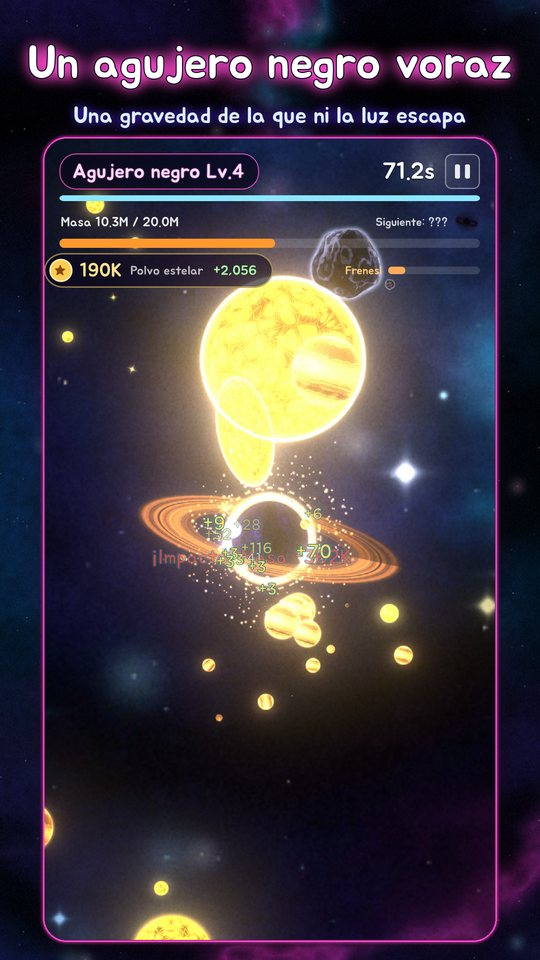
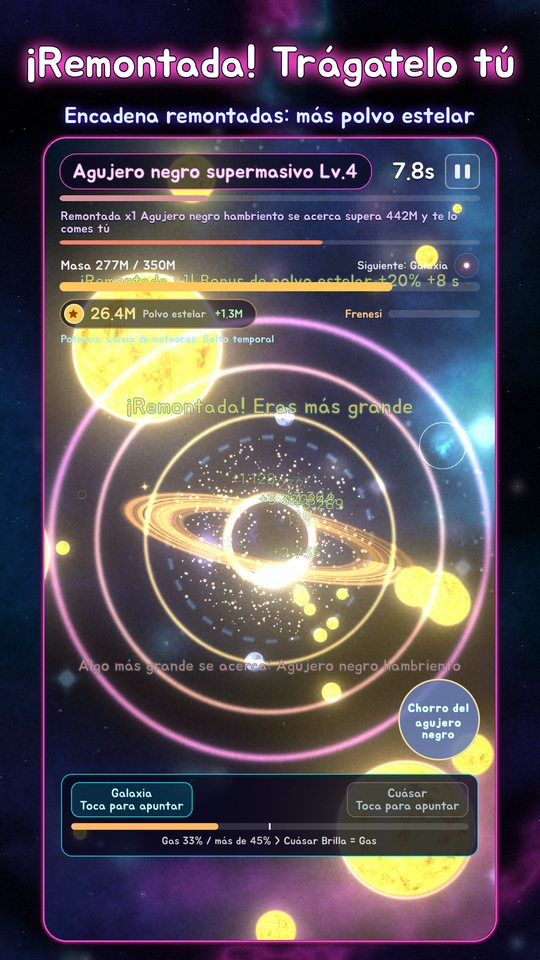
행성 키우기: 0.8 내용 반영 (포식자·역전·PHASE 2 소개, 새 스크린샷 8장 4개 언어)
Claude-Session: https://claude.ai/code/session_017QSvagNMUSkQcPdE7ZgBEb

diff --git a/ja/stellarbloom.html b/ja/stellarbloom.html
@@ -44,16 +44,20 @@
 
   <div class="shots">
     <img src="../img/stellarbloom_ja_1.jpg" alt="ぶつけて飲み込んで大きく：引き寄せ合い、合体する天体" loading="lazy">
-    <img src="../img/stellarbloom_ja_2.jpg" alt="飲み込んだ物質が進化を決める：環をまとった巨大ガス惑星" loading="lazy">
-    <img src="../img/stellarbloom_ja_3.jpg" alt="恒星になり、超巨星になる：赤色超巨星と降り注ぐ星くず" loading="lazy">
-    <img src="../img/stellarbloom_ja_4.jpg" alt="すべてを飲み込むブラックホール" loading="lazy">
-    <img src="../img/stellarbloom_ja_5.jpg" alt="ついに銀河へ" loading="lazy">
-    <img src="../img/stellarbloom_ja_6.jpg" alt="本物の天文学にもとづく図鑑：土星" loading="lazy">
+    <img src="../img/stellarbloom_ja_2.jpg" alt="何かが迫ってくる：巨大ガス惑星の背後に膨らむ赤色巨星" loading="lazy">
+    <img src="../img/stellarbloom_ja_3.jpg" alt="遅れれば飲み込まれる：宇宙の深みから来た飢えたもの" loading="lazy">
+    <img src="../img/stellarbloom_ja_4.jpg" alt="逆転：迫ってきた捕食者を逆に飲み込んで延長戦へ" loading="lazy">
+    <img src="../img/stellarbloom_ja_5.jpg" alt="すべてを飲み込むブラックホール" loading="lazy">
+    <img src="../img/stellarbloom_ja_6.jpg" alt="事象の地平線の向こう、PHASE 2" loading="lazy">
+    <img src="../img/stellarbloom_ja_7.jpg" alt="観測者の声" loading="lazy">
+    <img src="../img/stellarbloom_ja_8.jpg" alt="本物の天文学にもとづく図鑑：土星" loading="lazy">
   </div>
 
   <h2>特徴</h2>
   <ul class="features">
     <li><b>24種類の天体へ進化</b>原始惑星、スーパーアース、褐色矮星、赤色超巨星、マグネター、超大質量ブラックホール、楕円銀河まで。各段階で Lv.1〜5 まで成長します。</li>
+    <li><b>迫りくる捕食者、そして逆転</b>探査の終わりが近づくと、宇宙の深みから何かが迫ってきます。たどり着く前にそれより大きくなれば逆に飲み込み、さらに大きなものが来る延長戦へ。</li>
+    <li><b>事象の地平線の向こう、PHASE 2</b>初めてブラックホールになった瞬間、画面が裂けて PHASE 2 が開きます。観測者の声と観測日誌12編が、隠された物語を語ります。</li>
     <li><b>飲み込んだ物質が運命を決める</b>氷、ガス、重元素のどれを多く飲み込んだかで、進化の分岐が変わります。</li>
     <li><b>生きて動く重力</b>漂う天体どうしも引き寄せ合い、ぶつかると大きいほうが小さいほうを飲み込みます。</li>
     <li><b>本物の天文学のお話</b>新しい天体を発見するたびに、実際の科学にもとづいた短い解説が図鑑に記録されます。</li>

diff --git a/es/stellarbloom.html b/es/stellarbloom.html
@@ -44,16 +44,20 @@
 
   <div class="shots">
     <img src="../img/stellarbloom_es_1.jpg" alt="Choca y absorbe para crecer: cuerpos que se atraen y se fusionan" loading="lazy">
-    <img src="../img/stellarbloom_es_2.jpg" alt="Lo que absorbes decide tu evolución: un gigante gaseoso con anillos" loading="lazy">
-    <img src="../img/stellarbloom_es_3.jpg" alt="Conviértete en estrella y luego en supergigante: una supergigante roja y una lluvia de polvo estelar" loading="lazy">
-    <img src="../img/stellarbloom_es_4.jpg" alt="Un agujero negro que lo traga todo" loading="lazy">
-    <img src="../img/stellarbloom_es_5.jpg" alt="Por fin, una galaxia" loading="lazy">
-    <img src="../img/stellarbloom_es_6.jpg" alt="Una enciclopedia basada en astronomía real: Saturno" loading="lazy">
+    <img src="../img/stellarbloom_es_2.jpg" alt="Algo se acerca: una gigante roja en expansión tras un gigante gaseoso" loading="lazy">
+    <img src="../img/stellarbloom_es_3.jpg" alt="Si tardas, te devora: algo hambriento de las profundidades" loading="lazy">
+    <img src="../img/stellarbloom_es_4.jpg" alt="Remontada: trágate al depredador y sigue en prórroga" loading="lazy">
+    <img src="../img/stellarbloom_es_5.jpg" alt="Un agujero negro que lo traga todo" loading="lazy">
+    <img src="../img/stellarbloom_es_6.jpg" alt="Más allá del horizonte de sucesos: FASE 2" loading="lazy">
+    <img src="../img/stellarbloom_es_7.jpg" alt="Habla el observador" loading="lazy">
+    <img src="../img/stellarbloom_es_8.jpg" alt="Una enciclopedia basada en astronomía real: Saturno" loading="lazy">
   </div>
 
   <h2>Características</h2>
   <ul class="features">
     <li><b>Evoluciona a través de 24 cuerpos celestes</b>Protoplanetas, supertierras, enanas marrones, supergigantes rojas, magnetares, agujeros negros supermasivos y galaxias elípticas. Cada etapa crece del Nv. 1 al Nv. 5.</li>
+    <li><b>Algo se acerca. Dale la vuelta.</b>Al final de cada partida, algo surge de las profundidades. Supéralo en tamaño antes de que llegue y te lo tragarás tú; la partida sigue en prórroga con algo aún más grande en camino.</li>
+    <li><b>Más allá del horizonte de sucesos: FASE 2</b>Cuando te conviertes por primera vez en agujero negro, la pantalla se rasga y empieza la FASE 2. La voz del observador y 12 diarios de observación revelan la historia oculta.</li>
     <li><b>Lo que absorbes decide tu destino</b>Tu evolución se ramifica según hayas absorbido sobre todo hielo, gas o elementos pesados.</li>
     <li><b>Gravedad viva</b>Los cuerpos que flotan también se atraen entre sí y, cuando dos chocan, el mayor absorbe al menor.</li>
     <li><b>Astronomía de verdad</b>Cada nuevo cuerpo que descubres añade a tu enciclopedia una breve entrada basada en la ciencia real.</li>

diff --git a/stellarbloom.html b/stellarbloom.html
@@ -45,16 +45,20 @@
 
   <div class="shots">
     <img src="img/stellarbloom_ko_1.jpg" alt="부수고 삼켜서 더 크게: 서로 끌어당기고 합쳐지는 천체들" loading="lazy">
-    <img src="img/stellarbloom_ko_2.jpg" alt="삼킨 물질이 진화를 정한다: 고리를 두른 가스 거성" loading="lazy">
-    <img src="img/stellarbloom_ko_3.jpg" alt="별이 되고, 초거성이 되고: 적색 초거성과 쏟아지는 별가루" loading="lazy">
-    <img src="img/stellarbloom_ko_4.jpg" alt="모든 걸 삼키는 블랙홀" loading="lazy">
-    <img src="img/stellarbloom_ko_5.jpg" alt="마침내 은하가 되다" loading="lazy">
-    <img src="img/stellarbloom_ko_6.jpg" alt="실제 천문학 기반 도감: 토성" loading="lazy">
+    <img src="img/stellarbloom_ko_2.jpg" alt="무언가 다가온다: 가스 거성 뒤로 부풀어 오른 적색거성" loading="lazy">
+    <img src="img/stellarbloom_ko_3.jpg" alt="늦으면 삼켜진다: 우주 깊은 곳에서 온 굶주린 것" loading="lazy">
+    <img src="img/stellarbloom_ko_4.jpg" alt="역전: 다가온 포식자를 오히려 삼키고 연장전으로" loading="lazy">
+    <img src="img/stellarbloom_ko_5.jpg" alt="모든 걸 삼키는 블랙홀" loading="lazy">
+    <img src="img/stellarbloom_ko_6.jpg" alt="사건의 지평선 너머, PHASE 2" loading="lazy">
+    <img src="img/stellarbloom_ko_7.jpg" alt="관측자의 목소리" loading="lazy">
+    <img src="img/stellarbloom_ko_8.jpg" alt="실제 천문학 기반 도감: 토성" loading="lazy">
   </div>
 
   <h2>특징</h2>
   <ul class="features">
     <li><b>24가지 천체로 진화</b>원시 행성, 슈퍼지구, 갈색왜성, 적색 초거성, 마그네타, 초대질량 블랙홀, 타원은하까지. 단계마다 Lv.1~5로 자라요.</li>
+    <li><b>다가오는 포식자, 그리고 역전</b>판이 끝날 무렵 우주 깊은 곳에서 무언가 다가와요. 도착하기 전에 그보다 커지면 오히려 삼켜 버리고, 더 큰 것이 오는 연장전이 이어져요.</li>
+    <li><b>사건의 지평선 너머, PHASE 2</b>처음 블랙홀이 되는 순간 화면이 찢어지고 PHASE 2가 열려요. 관측자의 목소리와 관측 일지 12편이 숨겨진 이야기를 들려줘요.</li>
     <li><b>삼킨 물질이 운명을 정해요</b>얼음, 가스, 중원소 중 무엇을 많이 삼켰는지에 따라 진화의 갈래가 달라져요.</li>
     <li><b>살아 움직이는 중력</b>떠다니는 천체들도 서로 끌어당기고, 부딪히면 큰 쪽이 작은 쪽을 삼켜요.</li>
     <li><b>진짜 천문학 이야기</b>새로운 천체를 발견할 때마다 실제 과학에 바탕을 둔 짧은 설명이 도감에 기록돼요.</li>

diff --git a/en/stellarbloom.html b/en/stellarbloom.html
@@ -44,16 +44,20 @@
 
   <div class="shots">
     <img src="../img/stellarbloom_en_1.jpg" alt="Smash and swallow to grow: bodies pulling together and merging" loading="lazy">
-    <img src="../img/stellarbloom_en_2.jpg" alt="What you swallow decides your evolution: a ringed gas giant" loading="lazy">
-    <img src="../img/stellarbloom_en_3.jpg" alt="Become a star, then a supergiant: a red supergiant and a shower of stardust" loading="lazy">
-    <img src="../img/stellarbloom_en_4.jpg" alt="A black hole that swallows everything" loading="lazy">
-    <img src="../img/stellarbloom_en_5.jpg" alt="At last, a galaxy" loading="lazy">
-    <img src="../img/stellarbloom_en_6.jpg" alt="A codex grounded in real astronomy: Saturn" loading="lazy">
+    <img src="../img/stellarbloom_en_2.jpg" alt="Something is coming: a swelling red giant behind a gas giant" loading="lazy">
+    <img src="../img/stellarbloom_en_3.jpg" alt="Too slow, and you&#x27;re devoured: something hungry from the deep" loading="lazy">
+    <img src="../img/stellarbloom_en_4.jpg" alt="Reversal: swallow the predator instead and go into overtime" loading="lazy">
+    <img src="../img/stellarbloom_en_5.jpg" alt="A black hole that swallows everything" loading="lazy">
+    <img src="../img/stellarbloom_en_6.jpg" alt="Beyond the event horizon: PHASE 2" loading="lazy">
+    <img src="../img/stellarbloom_en_7.jpg" alt="The Observer speaks" loading="lazy">
+    <img src="../img/stellarbloom_en_8.jpg" alt="A codex grounded in real astronomy: Saturn" loading="lazy">
   </div>
 
   <h2>Features</h2>
   <ul class="features">
     <li><b>Evolve through 24 celestial bodies</b>Protoplanets, super-Earths, brown dwarfs, red supergiants, magnetars, supermassive black holes and elliptical galaxies. Each stage grows from Lv.1 to Lv.5.</li>
+    <li><b>Something is coming. Turn the tables.</b>Near the end of every run, something rises out of the depths. Outgrow it before it arrives and you swallow it instead, and the run goes into overtime with something bigger on the way.</li>
+    <li><b>Beyond the event horizon: PHASE 2</b>The moment you first become a black hole, the screen tears open and PHASE 2 begins. The Observer's voice and 12 observation logs reveal the hidden story.</li>
     <li><b>What you swallow shapes your fate</b>Your evolution branches depending on whether you absorbed mostly ice, gas or heavy elements.</li>
     <li><b>Living gravity</b>Drifting bodies pull on each other too, and when two collide, the bigger one swallows the smaller.</li>
     <li><b>Real astronomy</b>Every new body you discover adds a short, science-based entry to your codex.</li>

diff --git a/ja/index.html b/ja/index.html
@@ -36,7 +36,7 @@
     <img class="icon" src="../img/stellarbloom_icon.jpg" alt="Stellar Bloom">
     <div>
       <h3>Stellar Bloom <span class="alt">행성 키우기</span> <span class="tag"><span data-game="stellarbloom" data-when="soon" hidden>Android · リリース準備中</span><span data-game="stellarbloom" data-when="recruiting" hidden>Android · テスター募集中</span><span data-game="stellarbloom" data-when="testing">Android · クローズドテスト中</span><span data-game="stellarbloom" data-when="released" hidden>Android · Google Play で配信中</span></span></h3>
-      <p>ちりひと粒から惑星、恒星、ブラックホール、そして銀河へ。ぶつけて飲み込んで進化する、ネオン宇宙の育成ゲーム。</p>
+      <p>ちりひと粒から惑星、恒星、ブラックホール、そして銀河へ。ぶつけて飲み込んで進化し、迫りくる捕食者より先に大きくなろう。</p>
     </div>
   </a>
   <a class="card" href="wizardtower.html">

diff --git a/index.html b/index.html
@@ -37,7 +37,7 @@
     <img class="icon" src="img/stellarbloom_icon.jpg" alt="행성 키우기">
     <div>
       <h3>행성 키우기 <span class="alt">Stellar Bloom</span> <span class="tag"><span data-game="stellarbloom" data-when="soon" hidden>Android · 출시 준비 중</span><span data-game="stellarbloom" data-when="recruiting" hidden>Android · 테스터 모집 중</span><span data-game="stellarbloom" data-when="testing">Android · 비공개 테스트 중</span><span data-game="stellarbloom" data-when="released" hidden>Android · Google Play 출시</span></span></h3>
-      <p>먼지 한 톨에서 행성, 별, 블랙홀, 은하까지. 부수고 삼켜서 진화하는 네온 우주 성장 게임.</p>
+      <p>먼지 한 톨에서 행성, 별, 블랙홀, 은하까지. 부수고 삼켜서 진화하고, 다가오는 포식자보다 먼저 커지세요.</p>
     </div>
   </a>
   <a class="card" href="wizardtower.html">

diff --git a/es/index.html b/es/index.html
@@ -36,7 +36,7 @@
     <img class="icon" src="../img/stellarbloom_icon.jpg" alt="Stellar Bloom">
     <div>
       <h3>Stellar Bloom <span class="alt">행성 키우기</span> <span class="tag"><span data-game="stellarbloom" data-when="soon" hidden>Android · Próximamente</span><span data-game="stellarbloom" data-when="recruiting" hidden>Android · Buscamos testers</span><span data-game="stellarbloom" data-when="testing">Android · Prueba cerrada</span><span data-game="stellarbloom" data-when="released" hidden>Android · Ya en Google Play</span></span></h3>
-      <p>De una mota de polvo a planetas, estrellas, agujeros negros y galaxias. Un juego espacial de estética neón: choca, absorbe y evoluciona.</p>
+      <p>De una mota de polvo a planetas, estrellas, agujeros negros y galaxias. Choca, absorbe, evoluciona y crece más que lo que te acecha.</p>
     </div>
   </a>
   <a class="card" href="wizardtower.html">

diff --git a/en/index.html b/en/index.html
@@ -36,7 +36,7 @@
     <img class="icon" src="../img/stellarbloom_icon.jpg" alt="Stellar Bloom">
     <div>
       <h3>Stellar Bloom <span class="alt">행성 키우기</span> <span class="tag"><span data-game="stellarbloom" data-when="soon" hidden>Android · Coming soon</span><span data-game="stellarbloom" data-when="recruiting" hidden>Android · Recruiting testers</span><span data-game="stellarbloom" data-when="testing">Android · Closed testing</span><span data-game="stellarbloom" data-when="released" hidden>Android · Out now on Google Play</span></span></h3>
-      <p>From a speck of dust to planets, stars, black holes and galaxies. A neon space growth game where you smash, swallow and evolve.</p>
+      <p>From a speck of dust to planets, stars, black holes and galaxies. Smash, swallow and evolve, and outgrow what's coming for you.</p>
     </div>
   </a>
   <a class="card" href="wizardtower.html">

diff --git a/_src/strings.py b/_src/strings.py
@@ -215,14 +215,14 @@ UI = {
 GAMES = {
     "stellarbloom": dict(
         page="stellarbloom.html", icon="img/stellarbloom_icon.jpg", feature="img/stellarbloom_feature.jpg", pixel=False,
-        shots={l: [f"img/stellarbloom_{l}_{i}.jpg" for i in range(1, 7)] for l in ("ko", "en", "ja", "es")},
+        shots={l: [f"img/stellarbloom_{l}_{i}.jpg" for i in range(1, 9)] for l in ("ko", "en", "ja", "es")},
         name={"ko": "행성 키우기", "en": "Stellar Bloom", "ja": "Stellar Bloom", "es": "Stellar Bloom"},
         alt_name="Stellar Bloom",
         card={
-            "ko": "먼지 한 톨에서 행성, 별, 블랙홀, 은하까지. 부수고 삼켜서 진화하는 네온 우주 성장 게임.",
-            "en": "From a speck of dust to planets, stars, black holes and galaxies. A neon space growth game where you smash, swallow and evolve.",
-            "ja": "ちりひと粒から惑星、恒星、ブラックホール、そして銀河へ。ぶつけて飲み込んで進化する、ネオン宇宙の育成ゲーム。",
-            "es": "De una mota de polvo a planetas, estrellas, agujeros negros y galaxias. Un juego espacial de estética neón: choca, absorbe y evoluciona.",
+            "ko": "먼지 한 톨에서 행성, 별, 블랙홀, 은하까지. 부수고 삼켜서 진화하고, 다가오는 포식자보다 먼저 커지세요.",
+            "en": "From a speck of dust to planets, stars, black holes and galaxies. Smash, swallow and evolve, and outgrow what's coming for you.",
+            "ja": "ちりひと粒から惑星、恒星、ブラックホール、そして銀河へ。ぶつけて飲み込んで進化し、迫りくる捕食者より先に大きくなろう。",
+            "es": "De una mota de polvo a planetas, estrellas, agujeros negros y galaxias. Choca, absorbe, evoluciona y crece más que lo que te acecha.",
         },
         desc={
             "ko": "먼지 한 톨에서 은하까지! 부수고 삼켜서 진화하는 네온 우주 성장 게임",
@@ -243,29 +243,37 @@ GAMES = {
             "es": "Imagen principal de Stellar Bloom: un agujero negro con un disco de acreción brillante",
         },
         shot_alts={
-            "ko": ["부수고 삼켜서 더 크게: 서로 끌어당기고 합쳐지는 천체들", "삼킨 물질이 진화를 정한다: 고리를 두른 가스 거성", "별이 되고, 초거성이 되고: 적색 초거성과 쏟아지는 별가루",
-                   "모든 걸 삼키는 블랙홀", "마침내 은하가 되다", "실제 천문학 기반 도감: 토성"],
-            "en": ["Smash and swallow to grow: bodies pulling together and merging", "What you swallow decides your evolution: a ringed gas giant", "Become a star, then a supergiant: a red supergiant and a shower of stardust",
-                   "A black hole that swallows everything", "At last, a galaxy", "A codex grounded in real astronomy: Saturn"],
-            "ja": ["ぶつけて飲み込んで大きく：引き寄せ合い、合体する天体", "飲み込んだ物質が進化を決める：環をまとった巨大ガス惑星", "恒星になり、超巨星になる：赤色超巨星と降り注ぐ星くず",
-                   "すべてを飲み込むブラックホール", "ついに銀河へ", "本物の天文学にもとづく図鑑：土星"],
-            "es": ["Choca y absorbe para crecer: cuerpos que se atraen y se fusionan", "Lo que absorbes decide tu evolución: un gigante gaseoso con anillos", "Conviértete en estrella y luego en supergigante: una supergigante roja y una lluvia de polvo estelar",
-                   "Un agujero negro que lo traga todo", "Por fin, una galaxia", "Una enciclopedia basada en astronomía real: Saturno"],
+            "ko": ["부수고 삼켜서 더 크게: 서로 끌어당기고 합쳐지는 천체들", "무언가 다가온다: 가스 거성 뒤로 부풀어 오른 적색거성", "늦으면 삼켜진다: 우주 깊은 곳에서 온 굶주린 것",
+                   "역전: 다가온 포식자를 오히려 삼키고 연장전으로", "모든 걸 삼키는 블랙홀", "사건의 지평선 너머, PHASE 2", "관측자의 목소리", "실제 천문학 기반 도감: 토성"],
+            "en": ["Smash and swallow to grow: bodies pulling together and merging", "Something is coming: a swelling red giant behind a gas giant", "Too slow, and you're devoured: something hungry from the deep",
+                   "Reversal: swallow the predator instead and go into overtime", "A black hole that swallows everything", "Beyond the event horizon: PHASE 2", "The Observer speaks", "A codex grounded in real astronomy: Saturn"],
+            "ja": ["ぶつけて飲み込んで大きく：引き寄せ合い、合体する天体", "何かが迫ってくる：巨大ガス惑星の背後に膨らむ赤色巨星", "遅れれば飲み込まれる：宇宙の深みから来た飢えたもの",
+                   "逆転：迫ってきた捕食者を逆に飲み込んで延長戦へ", "すべてを飲み込むブラックホール", "事象の地平線の向こう、PHASE 2", "観測者の声", "本物の天文学にもとづく図鑑：土星"],
+            "es": ["Choca y absorbe para crecer: cuerpos que se atraen y se fusionan", "Algo se acerca: una gigante roja en expansión tras un gigante gaseoso", "Si tardas, te devora: algo hambriento de las profundidades",
+                   "Remontada: trágate al depredador y sigue en prórroga", "Un agujero negro que lo traga todo", "Más allá del horizonte de sucesos: FASE 2", "Habla el observador", "Una enciclopedia basada en astronomía real: Saturno"],
         },
         features={
             "ko": [("24가지 천체로 진화", "원시 행성, 슈퍼지구, 갈색왜성, 적색 초거성, 마그네타, 초대질량 블랙홀, 타원은하까지. 단계마다 Lv.1~5로 자라요."),
+                   ("다가오는 포식자, 그리고 역전", "판이 끝날 무렵 우주 깊은 곳에서 무언가 다가와요. 도착하기 전에 그보다 커지면 오히려 삼켜 버리고, 더 큰 것이 오는 연장전이 이어져요."),
+                   ("사건의 지평선 너머, PHASE 2", "처음 블랙홀이 되는 순간 화면이 찢어지고 PHASE 2가 열려요. 관측자의 목소리와 관측 일지 12편이 숨겨진 이야기를 들려줘요."),
                    ("삼킨 물질이 운명을 정해요", "얼음, 가스, 중원소 중 무엇을 많이 삼켰는지에 따라 진화의 갈래가 달라져요."),
                    ("살아 움직이는 중력", "떠다니는 천체들도 서로 끌어당기고, 부딪히면 큰 쪽이 작은 쪽을 삼켜요."),
                    ("진짜 천문학 이야기", "새로운 천체를 발견할 때마다 실제 과학에 바탕을 둔 짧은 설명이 도감에 기록돼요.")],
             "en": [("Evolve through 24 celestial bodies", "Protoplanets, super-Earths, brown dwarfs, red supergiants, magnetars, supermassive black holes and elliptical galaxies. Each stage grows from Lv.1 to Lv.5."),
+                   ("Something is coming. Turn the tables.", "Near the end of every run, something rises out of the depths. Outgrow it before it arrives and you swallow it instead, and the run goes into overtime with something bigger on the way."),
+                   ("Beyond the event horizon: PHASE 2", "The moment you first become a black hole, the screen tears open and PHASE 2 begins. The Observer's voice and 12 observation logs reveal the hidden story."),
                    ("What you swallow shapes your fate", "Your evolution branches depending on whether you absorbed mostly ice, gas or heavy elements."),
                    ("Living gravity", "Drifting bodies pull on each other too, and when two collide, the bigger one swallows the smaller."),
                    ("Real astronomy", "Every new body you discover adds a short, science-based entry to your codex.")],
             "ja": [("24種類の天体へ進化", "原始惑星、スーパーアース、褐色矮星、赤色超巨星、マグネター、超大質量ブラックホール、楕円銀河まで。各段階で Lv.1〜5 まで成長します。"),
+                   ("迫りくる捕食者、そして逆転", "探査の終わりが近づくと、宇宙の深みから何かが迫ってきます。たどり着く前にそれより大きくなれば逆に飲み込み、さらに大きなものが来る延長戦へ。"),
+                   ("事象の地平線の向こう、PHASE 2", "初めてブラックホールになった瞬間、画面が裂けて PHASE 2 が開きます。観測者の声と観測日誌12編が、隠された物語を語ります。"),
                    ("飲み込んだ物質が運命を決める", "氷、ガス、重元素のどれを多く飲み込んだかで、進化の分岐が変わります。"),
                    ("生きて動く重力", "漂う天体どうしも引き寄せ合い、ぶつかると大きいほうが小さいほうを飲み込みます。"),
                    ("本物の天文学のお話", "新しい天体を発見するたびに、実際の科学にもとづいた短い解説が図鑑に記録されます。")],
             "es": [("Evoluciona a través de 24 cuerpos celestes", "Protoplanetas, supertierras, enanas marrones, supergigantes rojas, magnetares, agujeros negros supermasivos y galaxias elípticas. Cada etapa crece del Nv. 1 al Nv. 5."),
+                   ("Algo se acerca. Dale la vuelta.", "Al final de cada partida, algo surge de las profundidades. Supéralo en tamaño antes de que llegue y te lo tragarás tú; la partida sigue en prórroga con algo aún más grande en camino."),
+                   ("Más allá del horizonte de sucesos: FASE 2", "Cuando te conviertes por primera vez en agujero negro, la pantalla se rasga y empieza la FASE 2. La voz del observador y 12 diarios de observación revelan la historia oculta."),
                    ("Lo que absorbes decide tu destino", "Tu evolución se ramifica según hayas absorbido sobre todo hielo, gas o elementos pesados."),
                    ("Gravedad viva", "Los cuerpos que flotan también se atraen entre sí y, cuando dos chocan, el mayor absorbe al menor."),
                    ("Astronomía de verdad", "Cada nuevo cuerpo que descubres añade a tu enciclopedia una breve entrada basada en la ciencia real.")],
